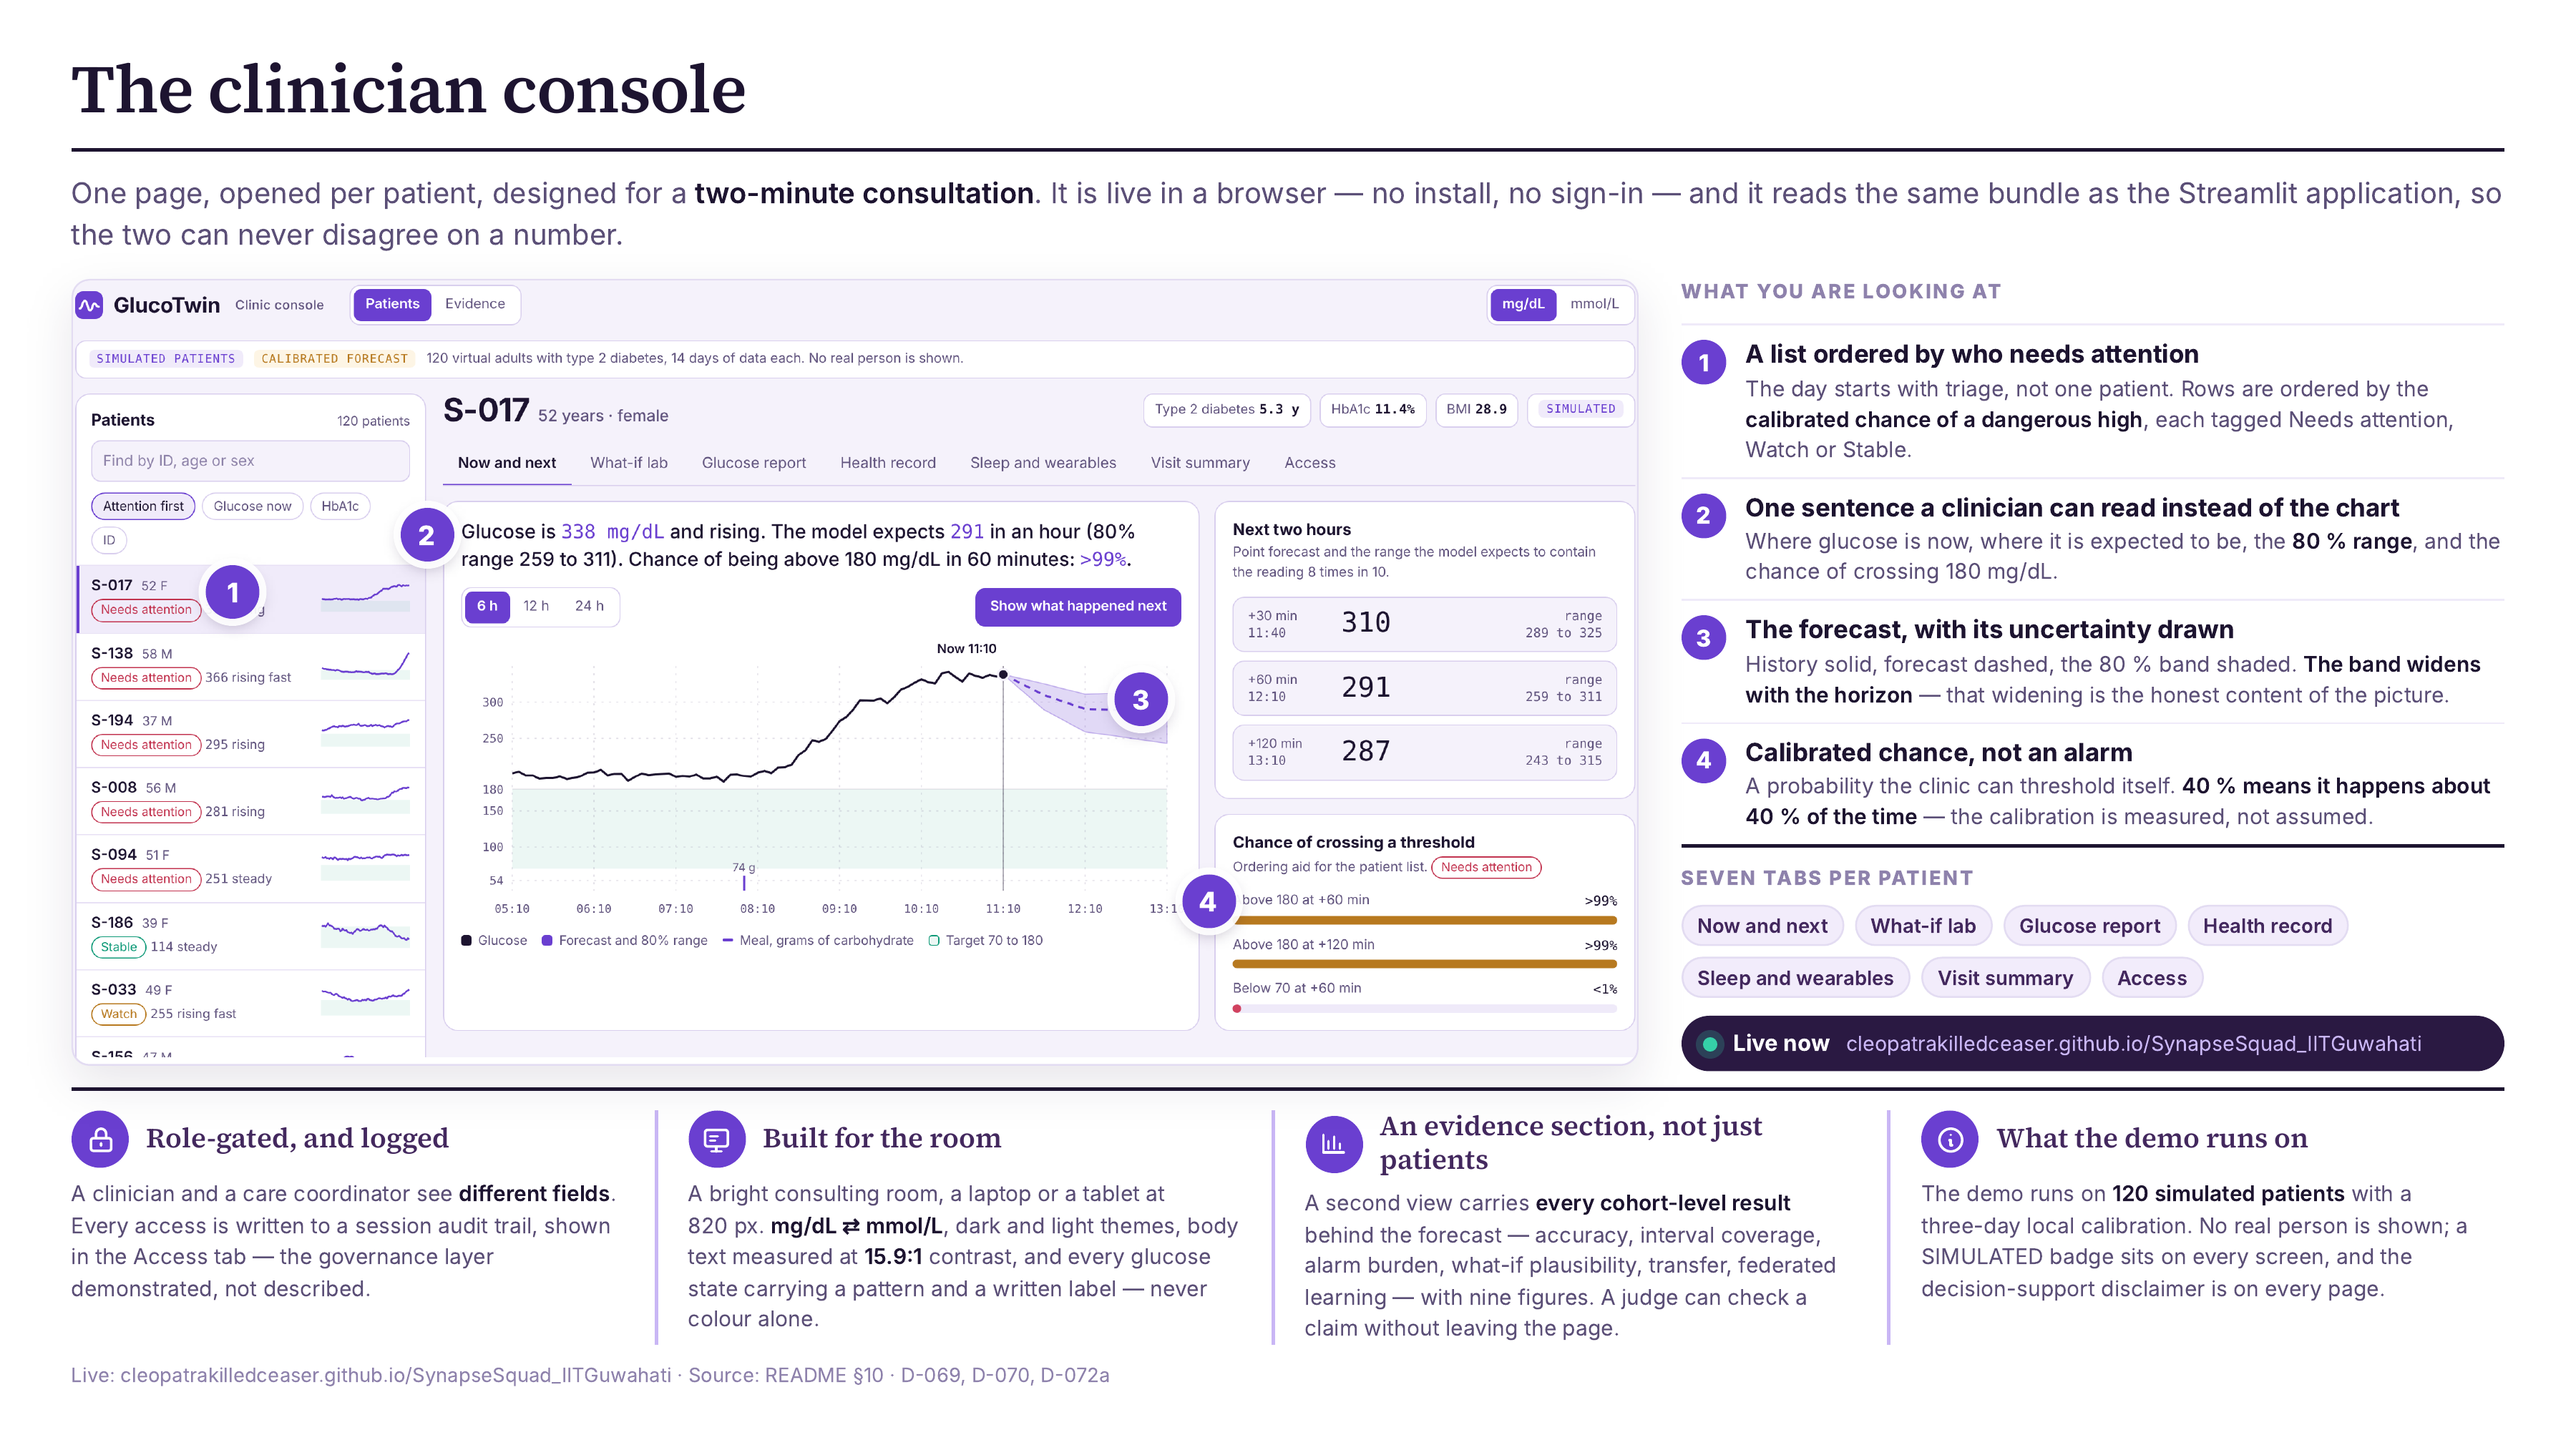
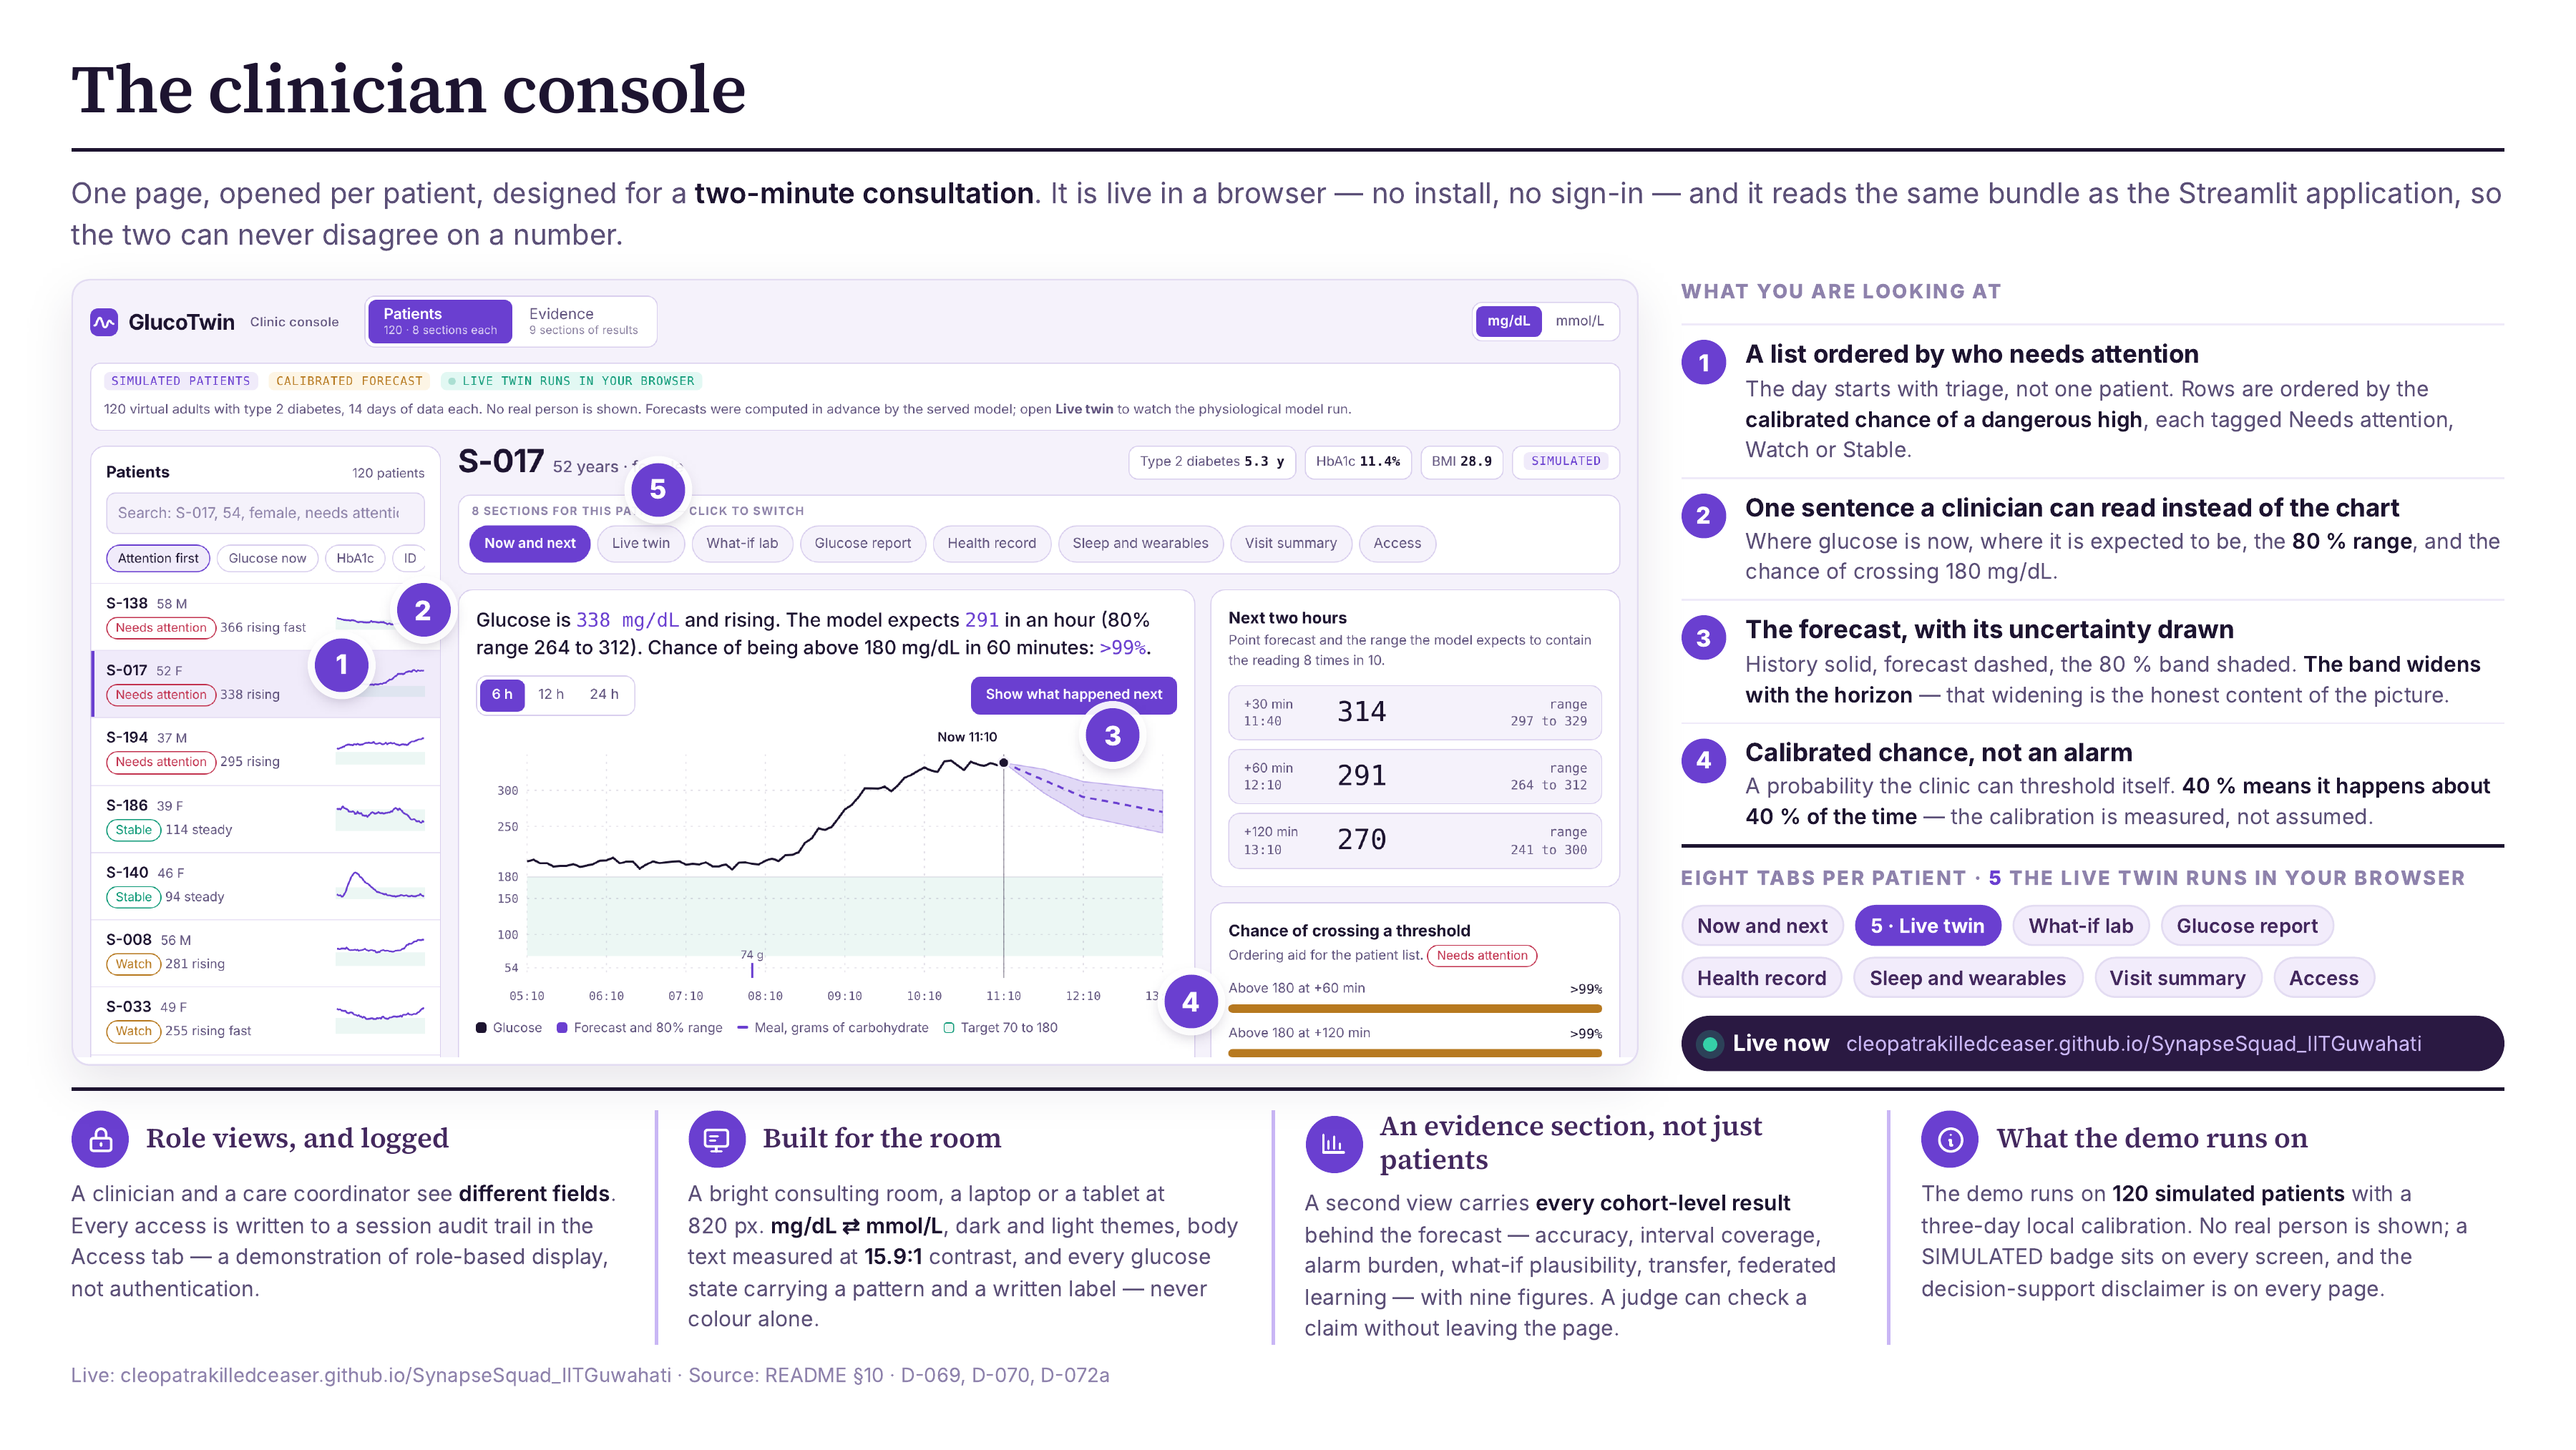
Slides 3 and 6 match the live console; console tab count is no longer hard-coded
- 6: fresh screenshot with the Live twin tab, eight tabs, role views described as display, not authentication.
- 3: S-017 range matches the console (264 to 312); twin updates every reading; personal basal glucose.
- Console: the Patients button counted 7 sections; it now reads the tab list.

Claude-Session: https://claude.ai/code/session_01M2M5UiL7jkag7dt9S3PLnp

diff --git a/web/index.html b/web/index.html
@@ -1055,7 +1055,7 @@ function shell() {
   const dev = S.data.forecast_source === "dev";
   $("#app").className = "";
   $("#app").innerHTML =
-    `<div class="top"><div class="brand"><svg viewBox="0 0 32 32" aria-hidden="true"><rect width="32" height="32" rx="9" fill="var(--accent)"/><path d="M5 20c3 0 3-9 6-9s3 11 6 11 3-8 5-8 2 4 5 4" fill="none" stroke="var(--accent-ink)" stroke-width="2.6" stroke-linecap="round" stroke-linejoin="round"/></svg>GlucoTwin<small>Clinic console</small></div><div class="seg nav big" role="group" aria-label="Section"><button data-view="patients" aria-pressed="${S.view === "patients"}">Patients<small>120 &middot; 7 sections each</small></button><button data-view="evidence" aria-pressed="${S.view === "evidence"}">Evidence<small>9 sections of results</small></button></div><div class="grow"></div>` +
+    `<div class="top"><div class="brand"><svg viewBox="0 0 32 32" aria-hidden="true"><rect width="32" height="32" rx="9" fill="var(--accent)"/><path d="M5 20c3 0 3-9 6-9s3 11 6 11 3-8 5-8 2 4 5 4" fill="none" stroke="var(--accent-ink)" stroke-width="2.6" stroke-linecap="round" stroke-linejoin="round"/></svg>GlucoTwin<small>Clinic console</small></div><div class="seg nav big" role="group" aria-label="Section"><button data-view="patients" aria-pressed="${S.view === "patients"}">Patients<small>${S.data.patients.length} &middot; ${TABS.length} sections each</small></button><button data-view="evidence" aria-pressed="${S.view === "evidence"}">Evidence<small>9 sections of results</small></button></div><div class="grow"></div>` +
     `<div class="seg" role="group" aria-label="Glucose units"><button data-unit="mgdl" aria-pressed="true">mg/dL</button><button data-unit="mmol" aria-pressed="false">mmol/L</button></div></div>` +
     `<div class="notice"><span class="tag">Simulated patients</span>${dev ? '<span class="tag warn">Development forecast</span>' : `<span class="tag warn">${esc(S.data.forecast_tag || "Model forecast")}</span>`}<span class="tag live"><i></i>Live twin runs in your browser</span><span>${S.data.patients.length} virtual adults with type 2 diabetes, ${S.data.cohort.days} days of data each. No real person is shown. Forecasts were computed in advance by the served model; open <b>Live twin</b> to watch the physiological model run.</span></div>` +
     `<div class="shell" id="shell"><aside class="rail"><div class="rail-head"><h2>Patients <span id="count"></span></h2>` +
